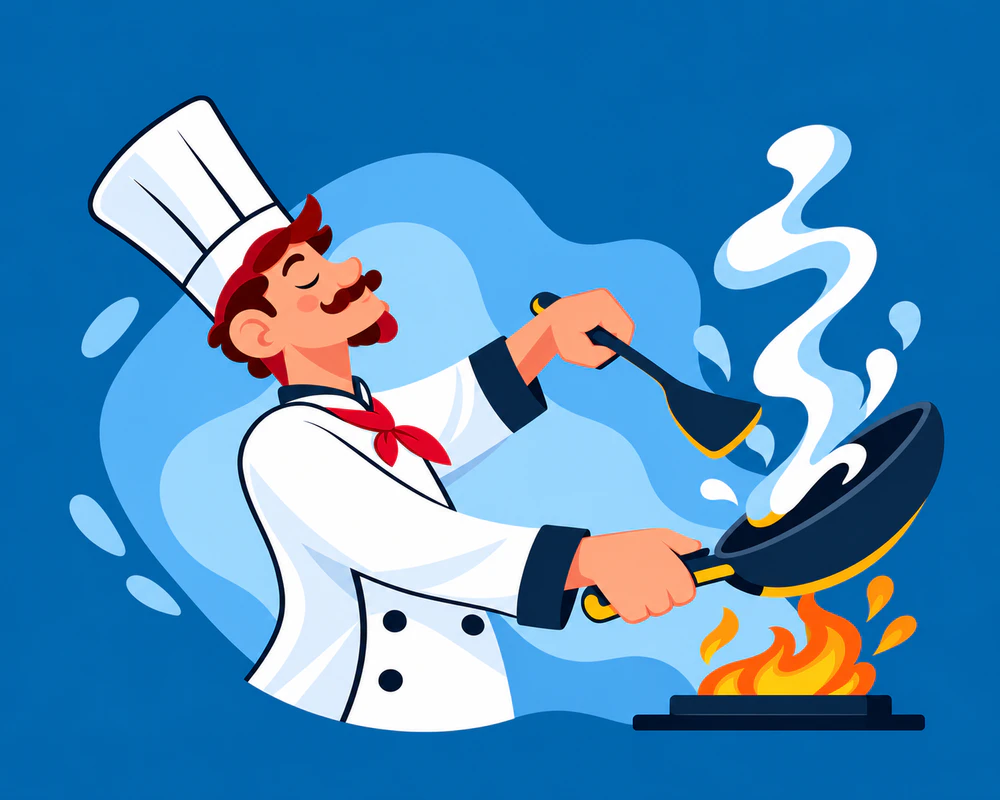
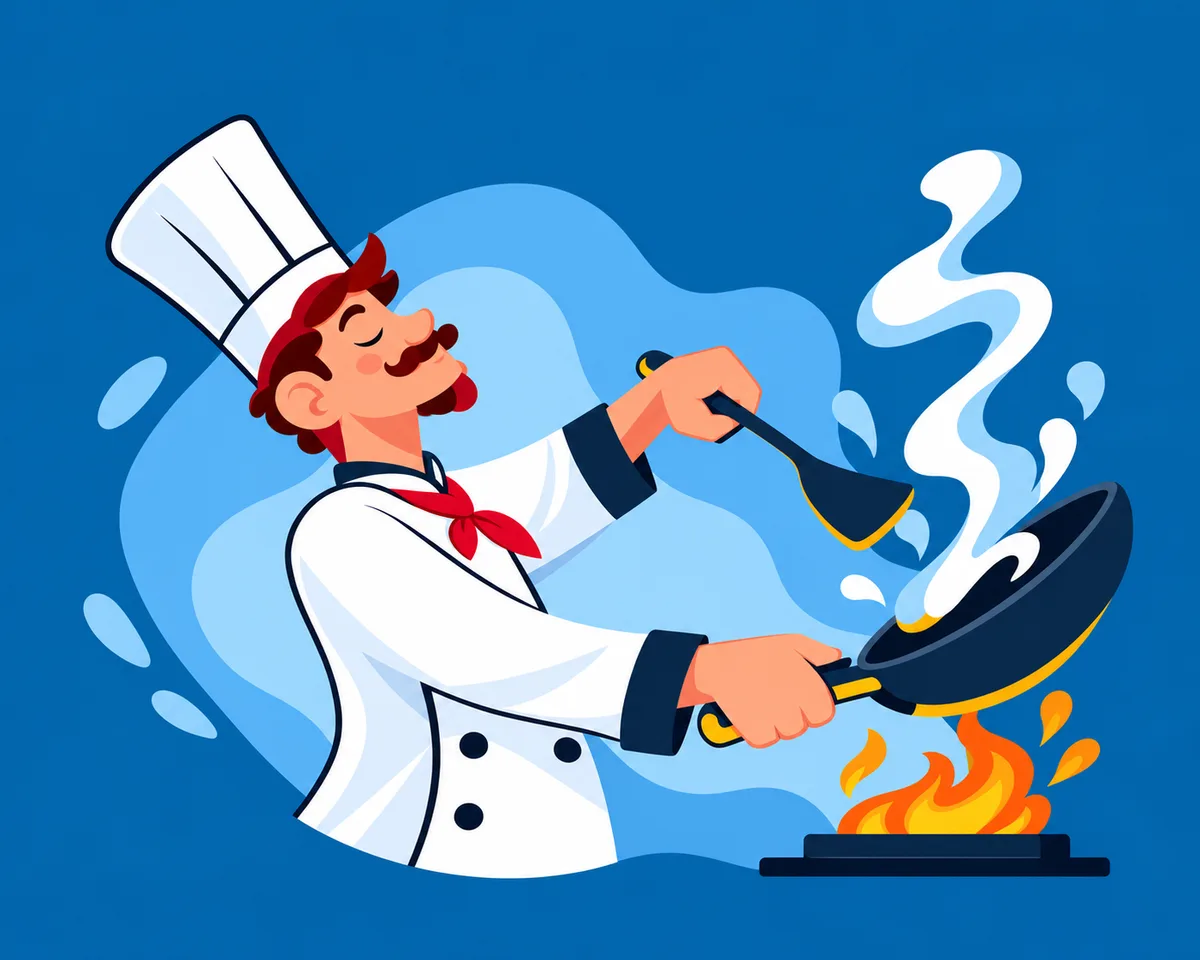
feat(acesso): ilustrações do chef enviadas pelo dono (computador e celular), tema azul
Computador: chef em fundo azul (#0165AD, igual ao painel). Celular: versão
com a curva branca embaixo, sob a faixa azul da marca. Botão e foco dos
campos passam para o azul. Fontes e textos sem mudança.

diff --git a/components/auth/auth-shell.tsx b/components/auth/auth-shell.tsx
@@ -2,9 +2,10 @@ import { ReactNode } from 'react'
 
 /**
  * Telas de acesso (login, cadastro, trocar e redefinir senha), 26/10/2026, desenhadas a partir da
- * imagem-modelo do dono (ARQUIVOS IMPORTANTES/1ea5c1e7…png): painel azul com o chef (ilustração do
- * dono, public/auth-chef.webp, fundo #0166AD igual ao do painel) e a frase, formulário branco com
- * rótulos e botão amarelo. No celular o azul vira o topo, com borda curva.
+ * imagem-modelo do dono (ARQUIVOS IMPORTANTES/1ea5c1e7…png), no tema azul: painel com o chef e a
+ * frase, formulário branco com rótulos e botão azul. Ilustrações do dono: public/auth-chef.webp
+ * (computador, fundo #0165AD = painel) e public/auth-chef-celular.webp (celular, já traz a curva
+ * branca embaixo; fundo #0168B3 = faixa da marca).
  * Fonte Inter (do app). Medidas em px porque a raiz do painel é 87,5%.
  */
 
@@ -12,23 +13,23 @@ export const AUTH_FONTE = 'var(--font-inter),Inter,-apple-system,"Segoe UI",sans
 
 /** Caixa do campo; use com `authEntrada` dentro quando houver ícone ao lado. */
 export const authCampo =
-  'flex h-[50px] w-full items-center rounded-[8px] border border-[#DFE2E8] bg-white px-[16px] transition-[border-color,box-shadow] focus-within:border-[#0F0F14] focus-within:shadow-[0_0_0_3px_rgba(254,218,44,0.6)]'
+  'flex h-[50px] w-full items-center rounded-[8px] border border-[#DFE2E8] bg-white px-[16px] transition-[border-color,box-shadow] focus-within:border-[#0165AD] focus-within:shadow-[0_0_0_3px_rgba(1,101,173,0.18)]'
 export const authEntrada =
   'h-full min-w-0 flex-1 bg-transparent text-[16px] text-[#0F0F14] placeholder:text-[#8A90A2] focus:outline-none'
 
 /** Campo simples (sem ícone). */
 export const authInput =
-  'h-[50px] w-full rounded-[8px] border border-[#DFE2E8] bg-white px-[16px] text-[16px] text-[#0F0F14] placeholder:text-[#8A90A2] transition-[border-color,box-shadow] focus:border-[#0F0F14] focus:shadow-[0_0_0_3px_rgba(254,218,44,0.6)] focus:outline-none'
+  'h-[50px] w-full rounded-[8px] border border-[#DFE2E8] bg-white px-[16px] text-[16px] text-[#0F0F14] placeholder:text-[#8A90A2] transition-[border-color,box-shadow] focus:border-[#0165AD] focus:shadow-[0_0_0_3px_rgba(1,101,173,0.18)] focus:outline-none'
 
 export const authButton =
-  'h-[54px] w-full rounded-[10px] bg-[#FEDA2C] text-[17px] font-bold text-[#0F0F14] transition-colors hover:bg-[#F5CD12] focus-visible:outline-none focus-visible:ring-2 focus-visible:ring-[#0F0F14] focus-visible:ring-offset-2 disabled:cursor-not-allowed disabled:opacity-60 disabled:hover:bg-[#FEDA2C]'
+  'h-[54px] w-full rounded-[10px] bg-[#0165AD] text-[17px] font-bold text-white transition-colors hover:bg-[#015290] focus-visible:outline-none focus-visible:ring-2 focus-visible:ring-[#0165AD] focus-visible:ring-offset-2 disabled:cursor-not-allowed disabled:opacity-60 disabled:hover:bg-[#0165AD]'
 
 export const authLabel = 'mb-[8px] block text-[15px] font-bold text-[#0F0F14]'
 export const authLink = 'font-bold text-[#0F0F14] underline underline-offset-[3px] hover:text-[#3B3F4A]'
 
 /** Faixas de aviso dentro do formulário. */
 export const authAviso = {
-  info: 'mb-[18px] rounded-[8px] bg-[#FFF8D6] px-[14px] py-[10px] text-[14px] leading-[20px] text-[#5A4500]',
+  info: 'mb-[18px] rounded-[8px] bg-[#E6F1FA] px-[14px] py-[10px] text-[14px] leading-[20px] text-[#014A80]',
   ok: 'mb-[18px] rounded-[8px] bg-price-bg px-[14px] py-[10px] text-[14px] leading-[20px] text-price-text',
   erro: 'mb-[18px] rounded-[8px] bg-danger-bg px-[14px] py-[10px] text-[14px] leading-[20px] text-[#B91C1C]',
 }
@@ -52,16 +53,25 @@ export function AuthShell({
   return (
     <main className="flex min-h-screen flex-col bg-white lg:h-screen lg:min-h-[640px] lg:flex-row lg:overflow-hidden" style={{ fontFamily: AUTH_FONTE }}>
       {/* Painel azul */}
-      <section className="relative flex shrink-0 flex-col items-center overflow-hidden rounded-b-[50%_44px] bg-[#0166AD] px-[20px] pb-[8px] pt-[28px] lg:h-screen lg:min-h-[640px] lg:w-[52.5%] lg:items-stretch lg:rounded-none lg:px-[48px] lg:pb-[64px] lg:pt-[44px]">
+      <section className="relative flex shrink-0 flex-col items-center overflow-hidden bg-[#0168B3] pt-[28px] lg:h-screen lg:min-h-[640px] lg:w-[52.5%] lg:items-stretch lg:bg-[#0165AD] lg:px-[48px] lg:pb-[64px] lg:pt-[44px]">
         <Marca className="text-[28px] lg:text-[38px]" />
-        <div className="flex min-h-0 w-full flex-1 items-center justify-center lg:py-[16px]">
+        {/* Celular: a imagem já termina na curva branca */}
+        {/* eslint-disable-next-line @next/next/no-img-element */}
+        <img
+          src="/auth-chef-celular.webp"
+          alt="Chef com a concha erguida e a frigideira no fogo"
+          width={900}
+          height={610}
+          className="mt-[4px] block h-auto w-full lg:hidden"
+        />
+        <div className="hidden min-h-0 w-full flex-1 items-center justify-center lg:flex lg:py-[16px]">
           {/* eslint-disable-next-line @next/next/no-img-element */}
           <img
             src="/auth-chef.webp"
             alt="Chef com a concha erguida e a frigideira no fogo"
-            width={1000}
-            height={800}
-            className="h-auto max-h-full w-full max-w-[300px] object-contain lg:w-auto lg:max-w-[600px]"
+            width={1200}
+            height={960}
+            className="h-auto max-h-full w-auto max-w-[620px] object-contain"
           />
         </div>
         <div className="hidden lg:block">
